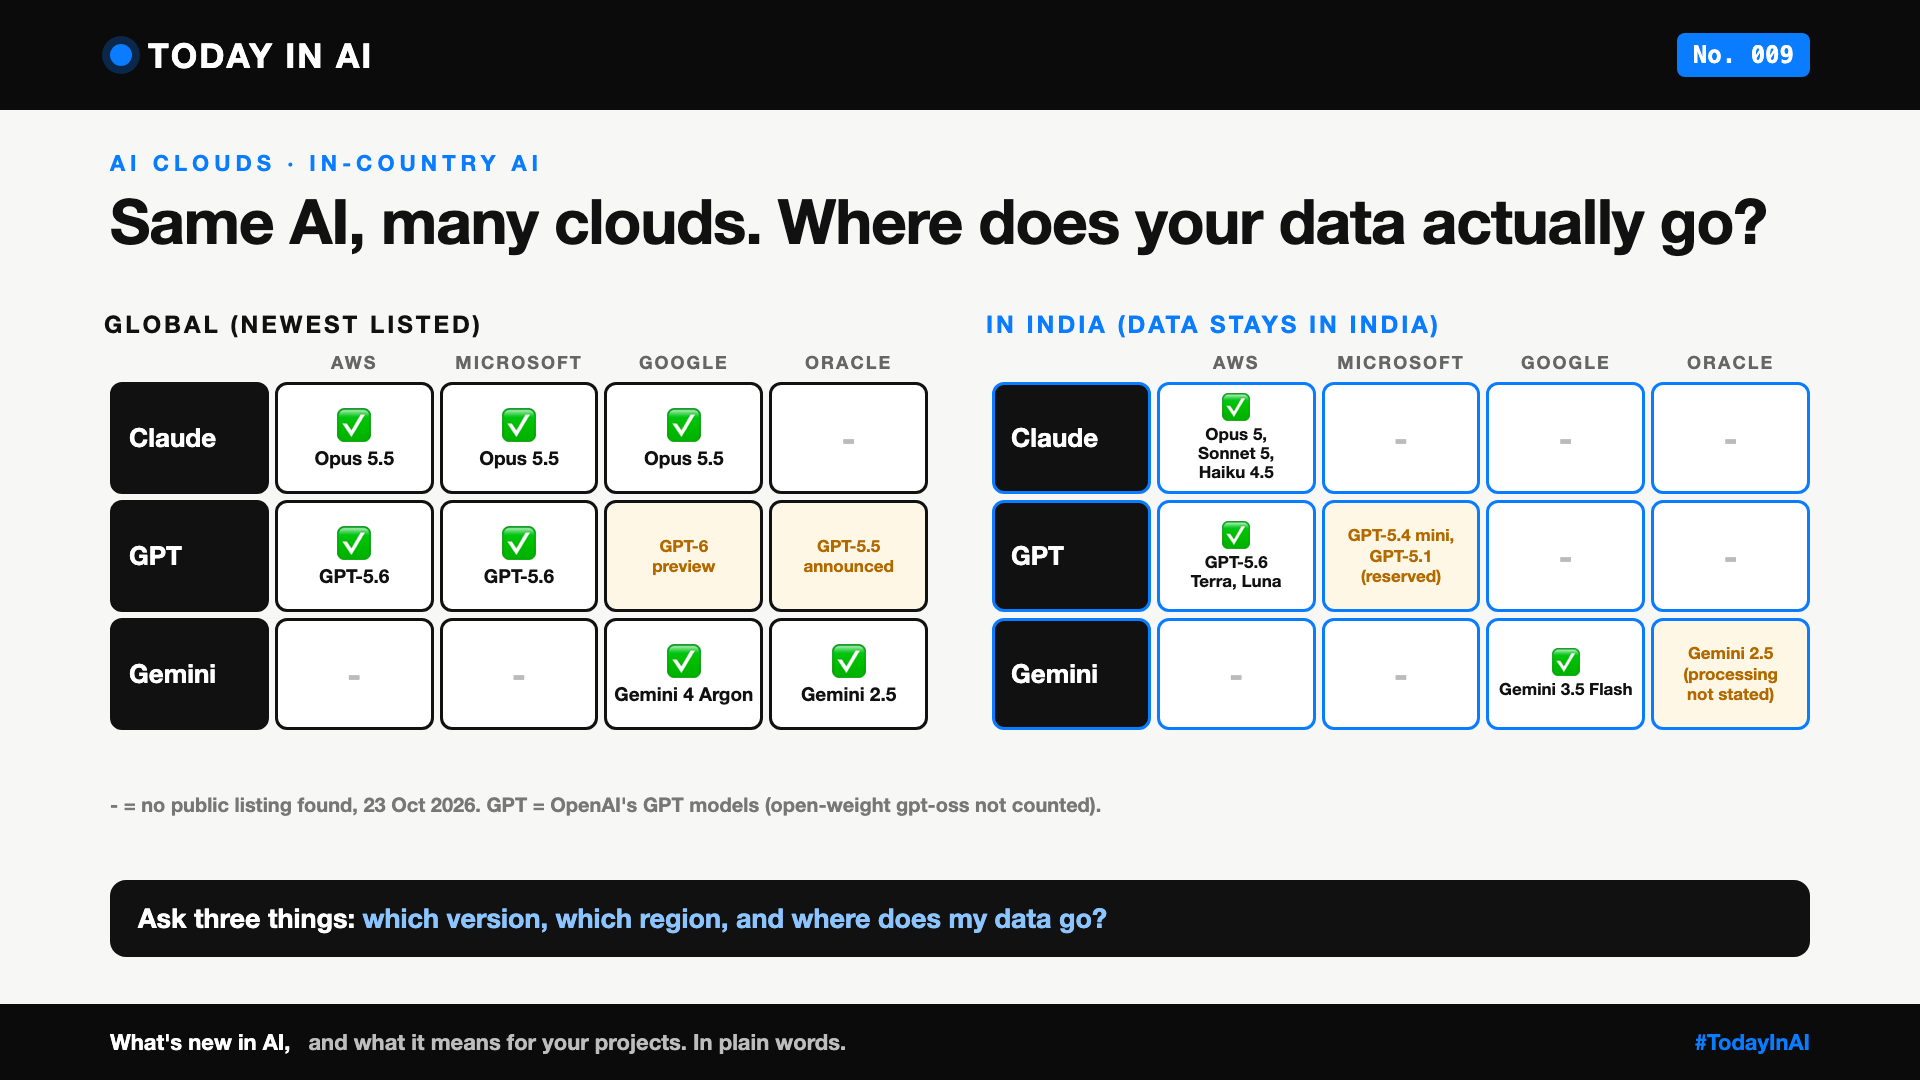
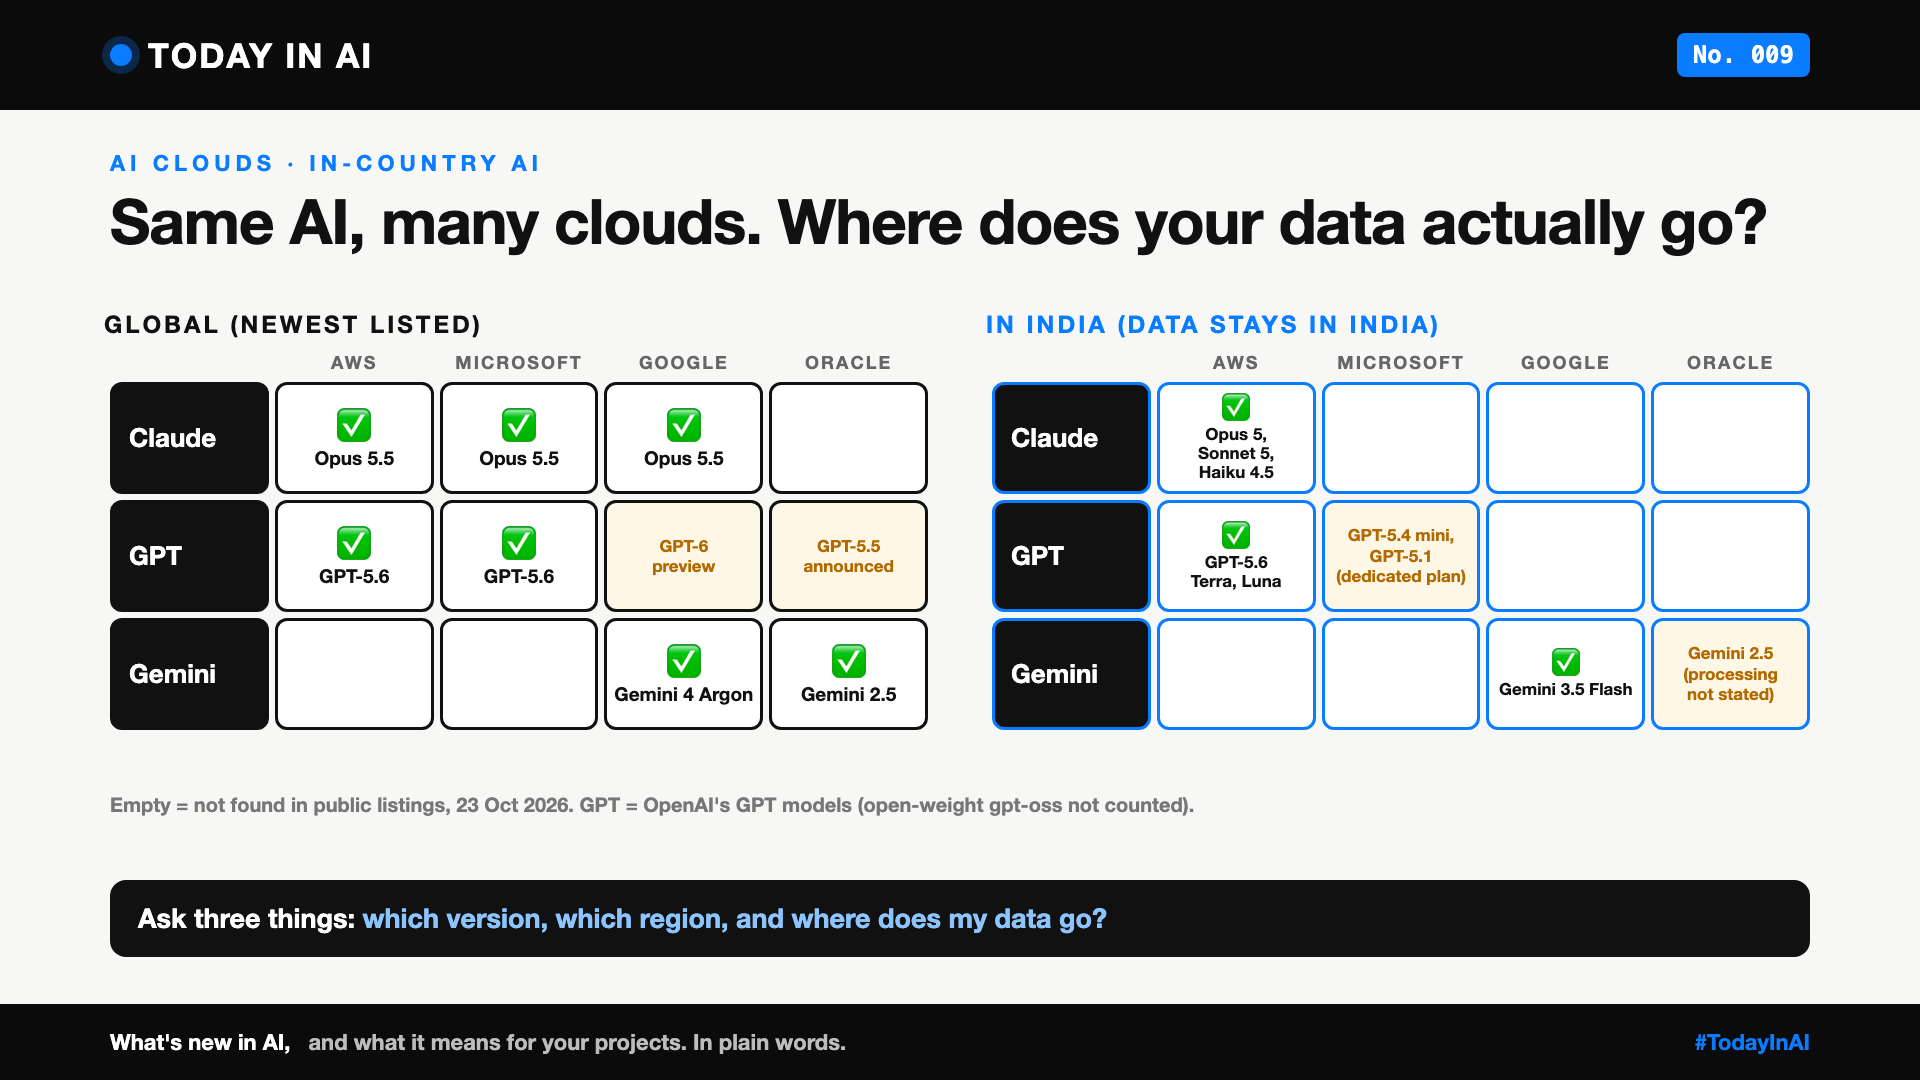
Today in AI 009: clearer 'dedicated plan' label, empty cells instead of dashes

Changed region(s): [[0.0625, 0.7333, 0.625, 0.7639], [0.6875, 0.5194, 0.7812, 0.55]]

diff --git a/20-today-in-ai/009-same-ai-many-clouds.md b/20-today-in-ai/009-same-ai-many-clouds.md
@@ -24,7 +24,7 @@
 **In India, with data staying in India:**
 
 - **AWS:** Claude ✅ Opus 5, Sonnet 5, Haiku 4.5 [1]. GPT ✅ GPT-5.6 Terra, Luna [2]. Gemini ➖.
-- **Microsoft:** GPT 🟡 GPT-5.4 mini and GPT-5.1, on reserved capacity only (pay-as-you-go: GPT-4o, GPT-4.1 mini) [10]. Claude ➖, offered only globally or in the US [4]. Gemini ➖.
+- **Microsoft:** GPT 🟡 GPT-5.4 mini and GPT-5.1, only on a dedicated plan where you pre-book capacity (pay-per-use: GPT-4o, GPT-4.1 mini) [10]. Claude ➖, offered only globally or in the US [4]. Gemini ➖.
 - **Google Cloud:** Gemini ✅ Gemini 3.5 Flash, processed in Mumbai [15]. Claude ➖, no Indian region listed [16]. GPT ➖.
 - **Oracle:** Gemini 🟡 Gemini 2.5 offered in Hyderabad, but Oracle doesn't say where it's processed [17]. Claude ➖. GPT ➖.
 
